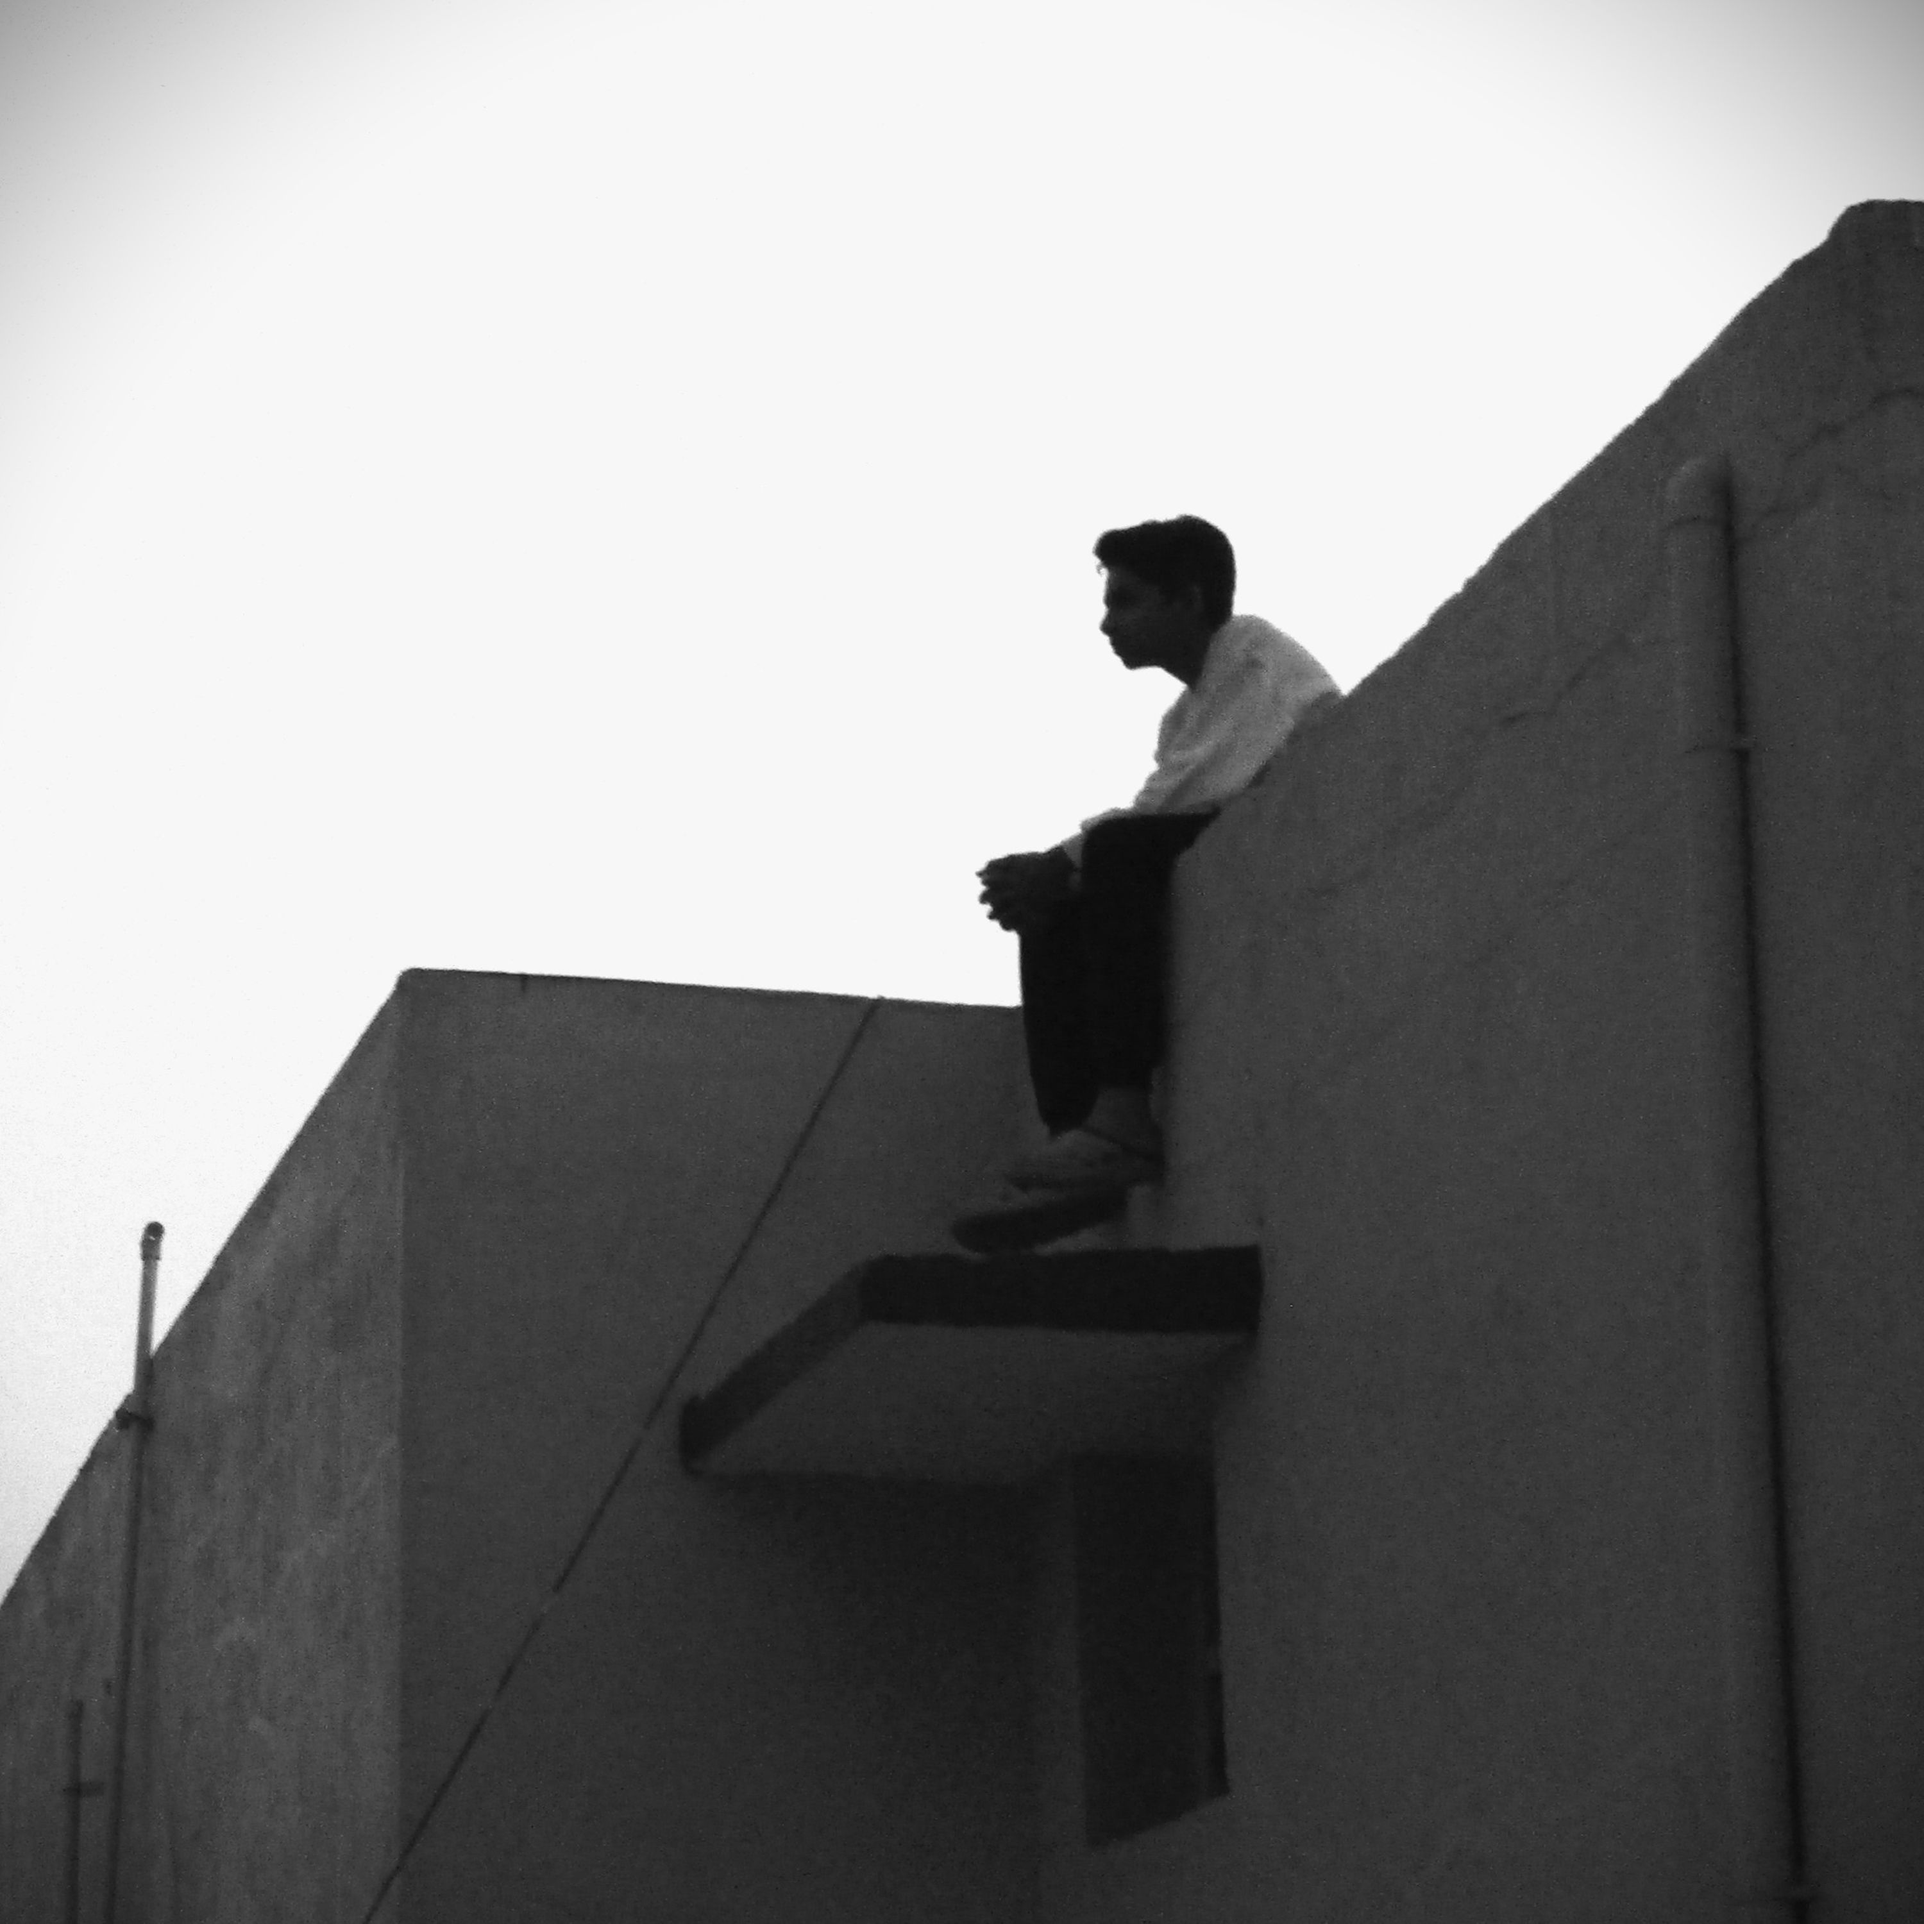
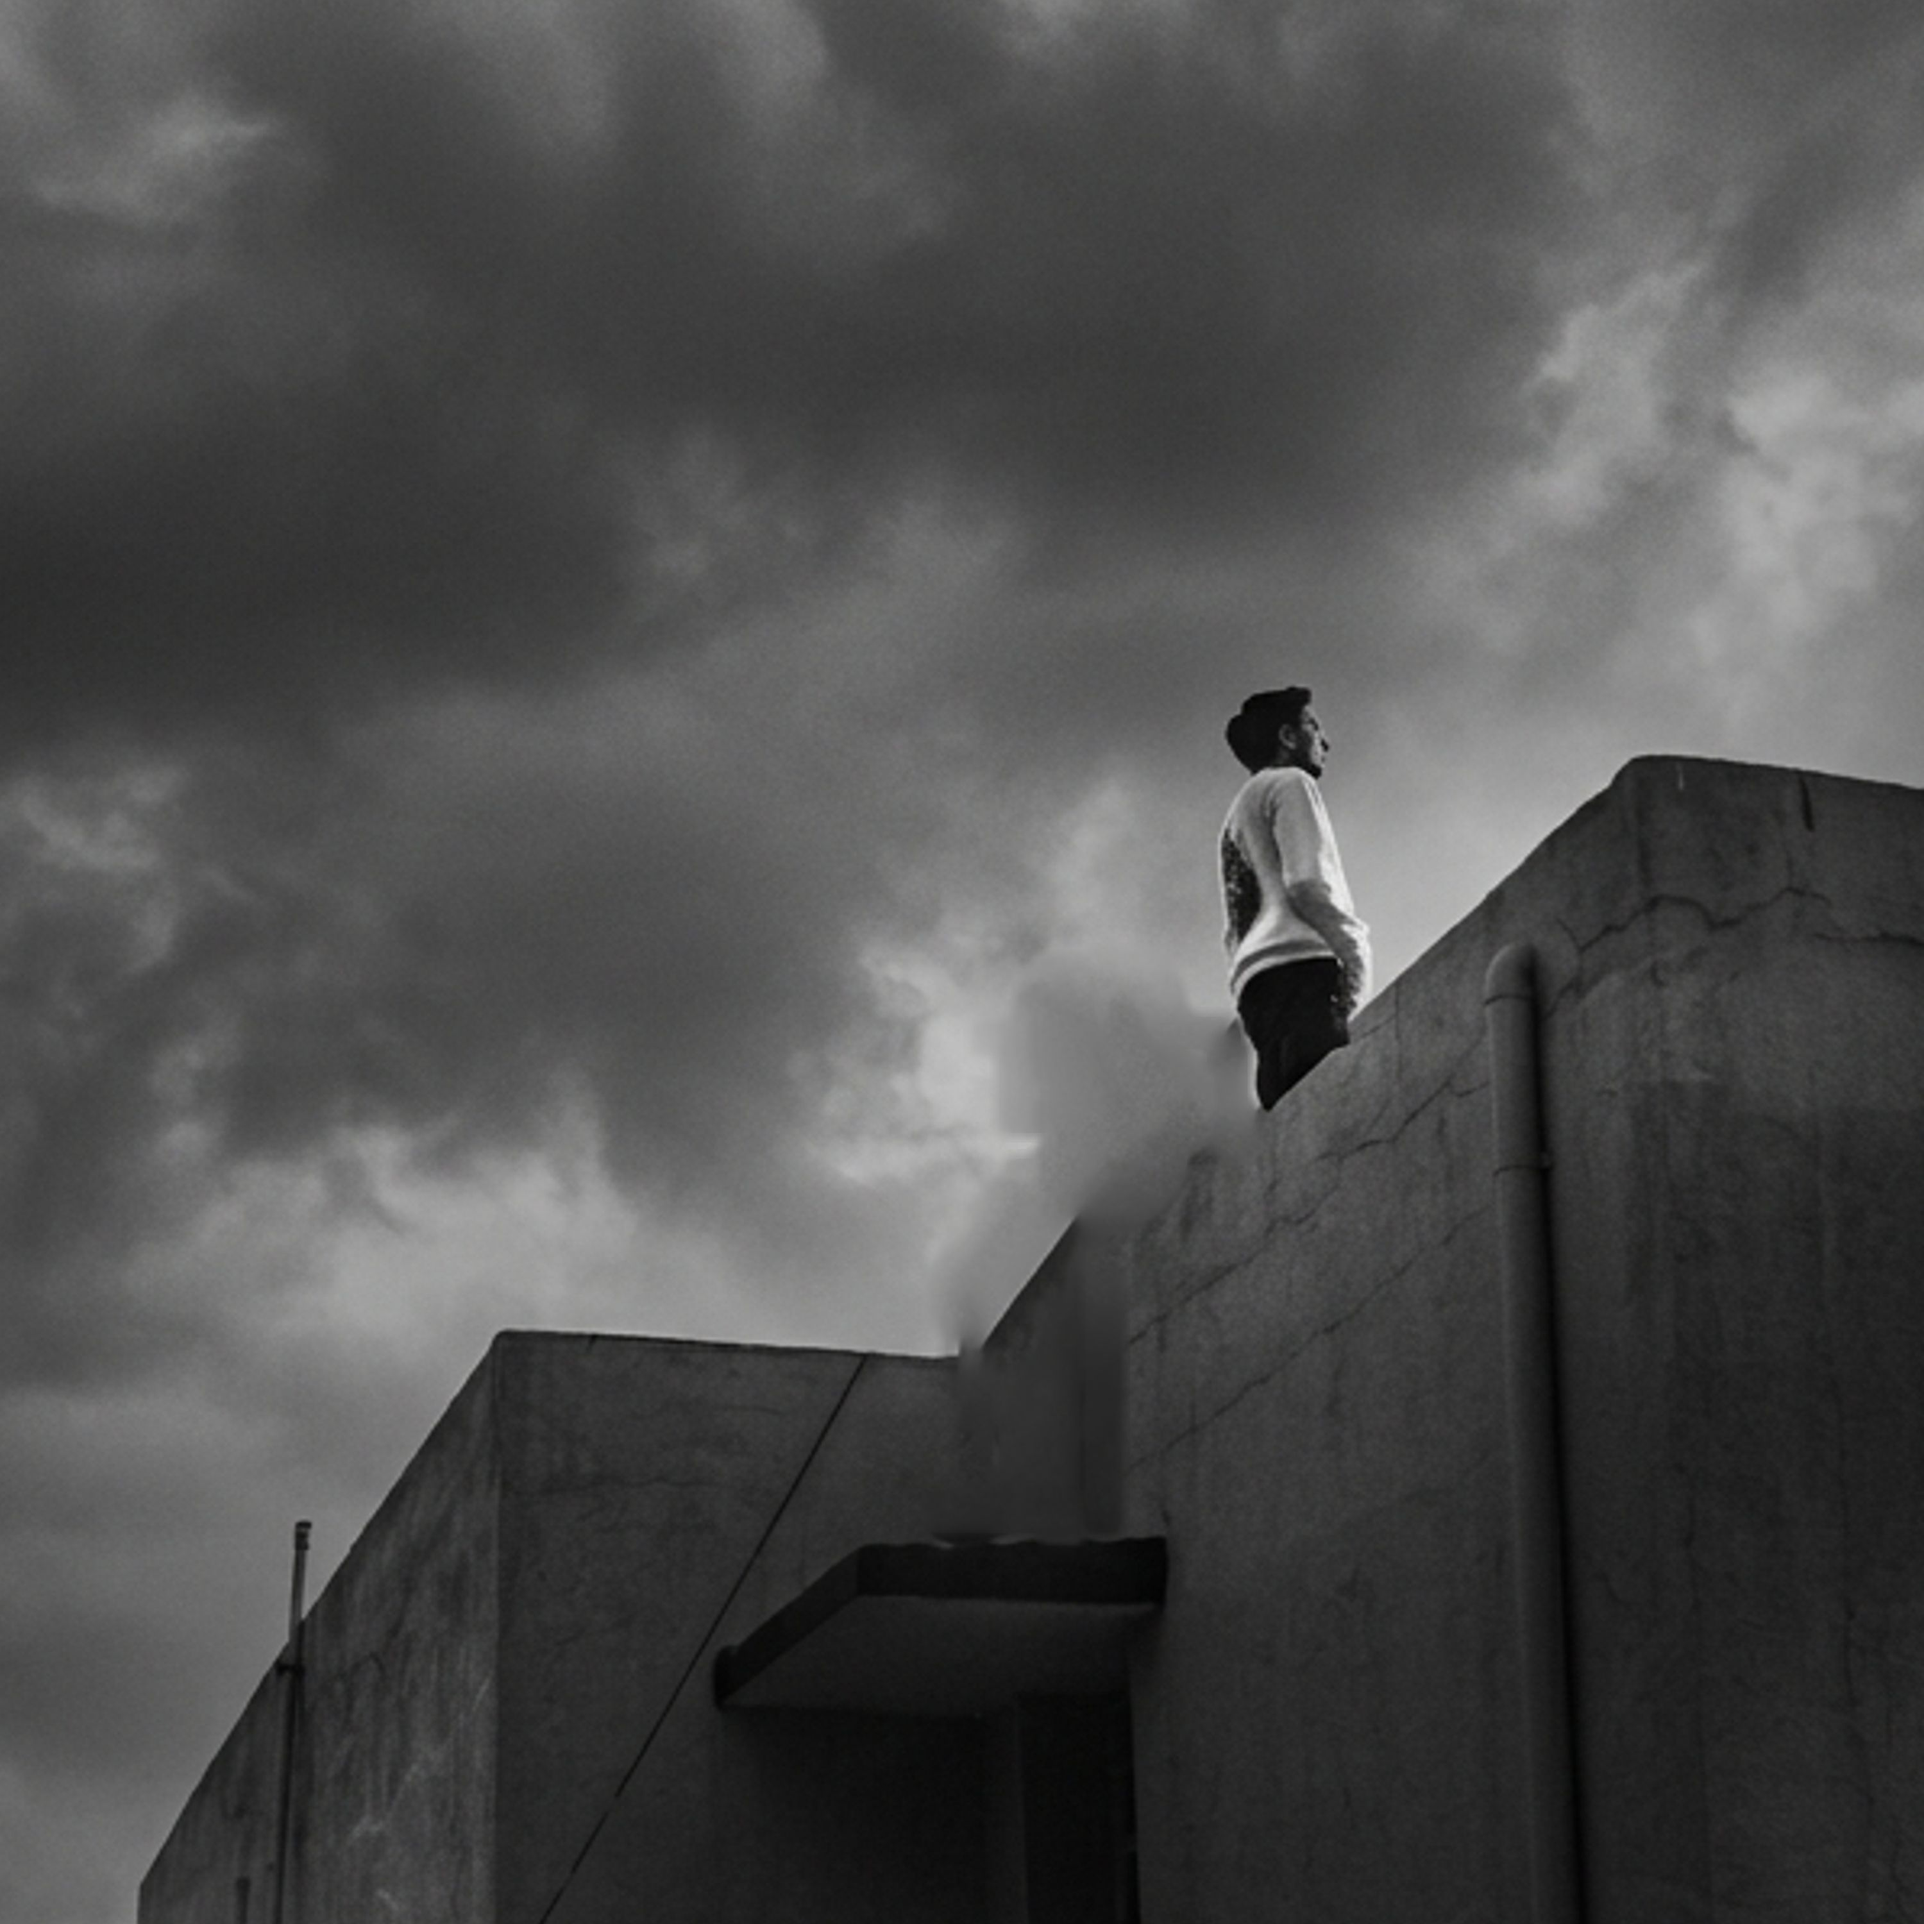
added new single

diff --git a/index.html b/index.html
@@ -25,19 +25,19 @@
         <section id="hero">
             <div class="overlay"></div>
             <div class="hero-content">
-                <h1>Musidk's New Single is Here!!: </h1>    
+                <h1>Someone You Don't Know - September 25: </h1>    
                      
                 
                 
                 <div class="music-card">
                     <div class="card-face card-front">
-                        <img src="Images/cover.jpg" alt="Gone">
-                        <span class="hover-prompt">Hover/Tap Me to unlock stream link!</span> 
+                        <img src="Images/cover.jpg" alt="Someone You Don't Know">
+                        <span class="hover-prompt">Hover/Tap Me to unlock Pre-Save!</span> 
                     </div>
                     
                     <div class="card-face card-back">
-                        <p> Stream Gone!!</p>
-                        <a href="https://push.fm/fl/m-gone" class="pre-save">Stream the single now!</a>
+                        <p> Pre-Save Someone You Don't Know</p>
+                        <a href="https://push.fm/ps/sydk" class="pre-save">Pre-Save now</a>
                     </div>
                 </div>
                 
@@ -58,6 +58,7 @@
             <li><a href="https://push.fm/fl/uurbmeu0" target="_blank">Even a Day</a></li>
             <li><a href="https://push.fm/fl/Hv4uIkMU" target="_blank">Blinded By Explosive Silence</a></li>
             <li><a href="https://push.fm/fl/m-gone" target="_blank">Gone</a></li>
+            <li><a href="https://push.fm/ps/sydk" target="_blank">Someone You Don't Know - Pre-Save now</a></li>
             <li> That's all for now, more music coming soon! </li>
         </ul>
         </section>
